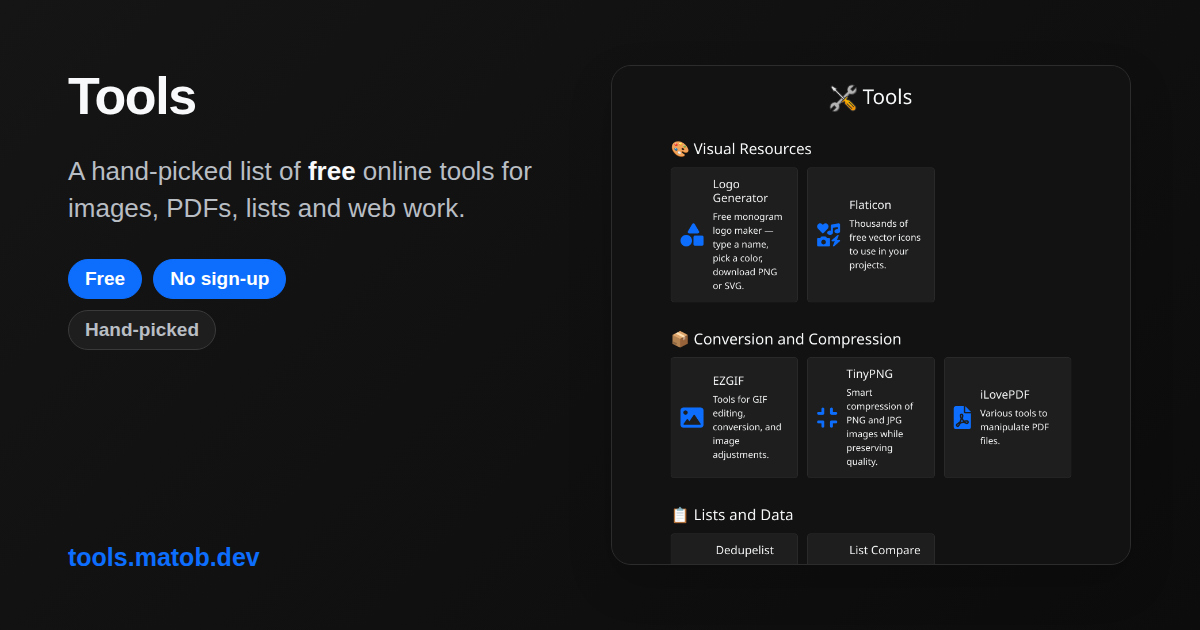
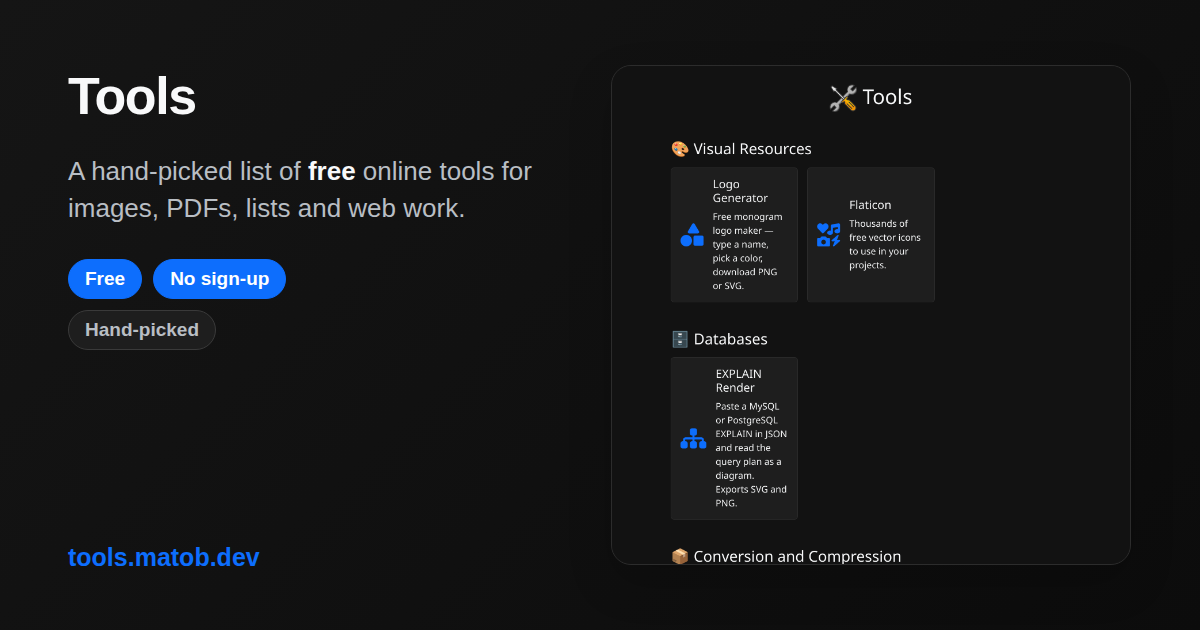
feat: add EXPLAIN Render to the tools list
New "Databases" section, right after Visual Resources, so the tools I
maintain stay near the top. The other sections keep the order they had.

The share card is regenerated from the page, so it already shows the new
entry.

Changed region(s): [[0.555, 0.5127, 0.7708, 0.9048], [0.6783, 0.573, 0.8633, 0.754]]

diff --git a/data.js b/data.js
@@ -17,6 +17,17 @@ const toolSections = [
     ]
   },
   {
+    title: "🗄 Databases",
+    tools: [
+      {
+        name: "EXPLAIN Render",
+        description: "Paste a MySQL or PostgreSQL EXPLAIN in JSON and read the query plan as a diagram. Exports SVG and PNG.",
+        icon: "fas fa-sitemap",
+        link: "https://explain-render.matob.dev/"
+      }
+    ]
+  },
+  {
     title: "📦 Conversion and Compression",
     tools: [
       {
